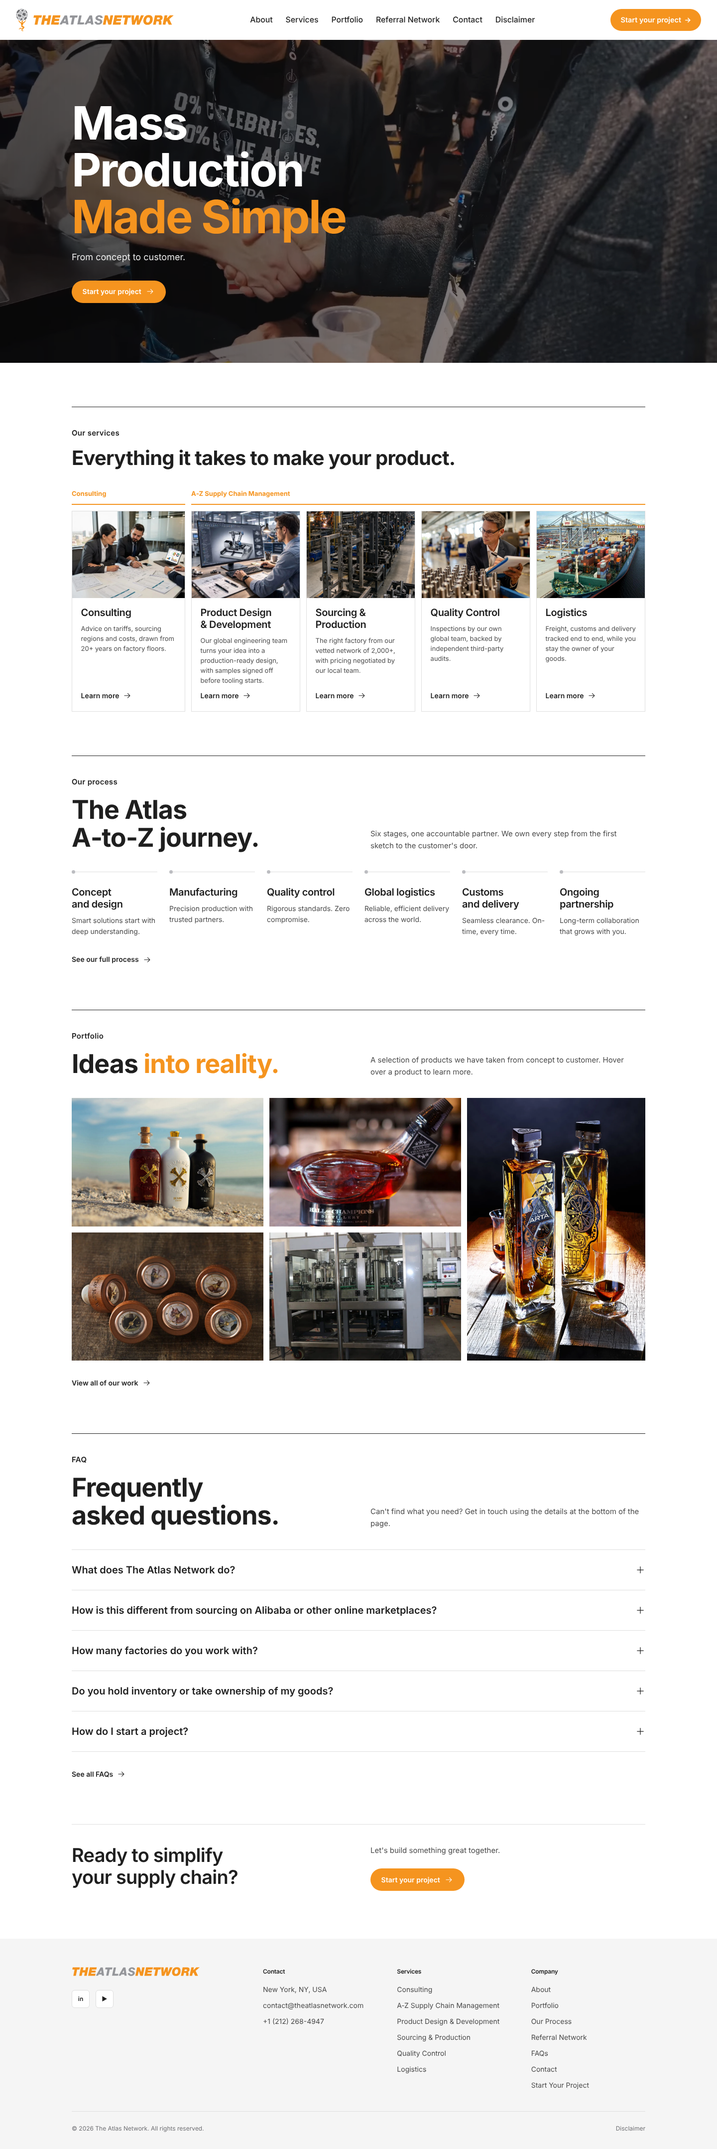
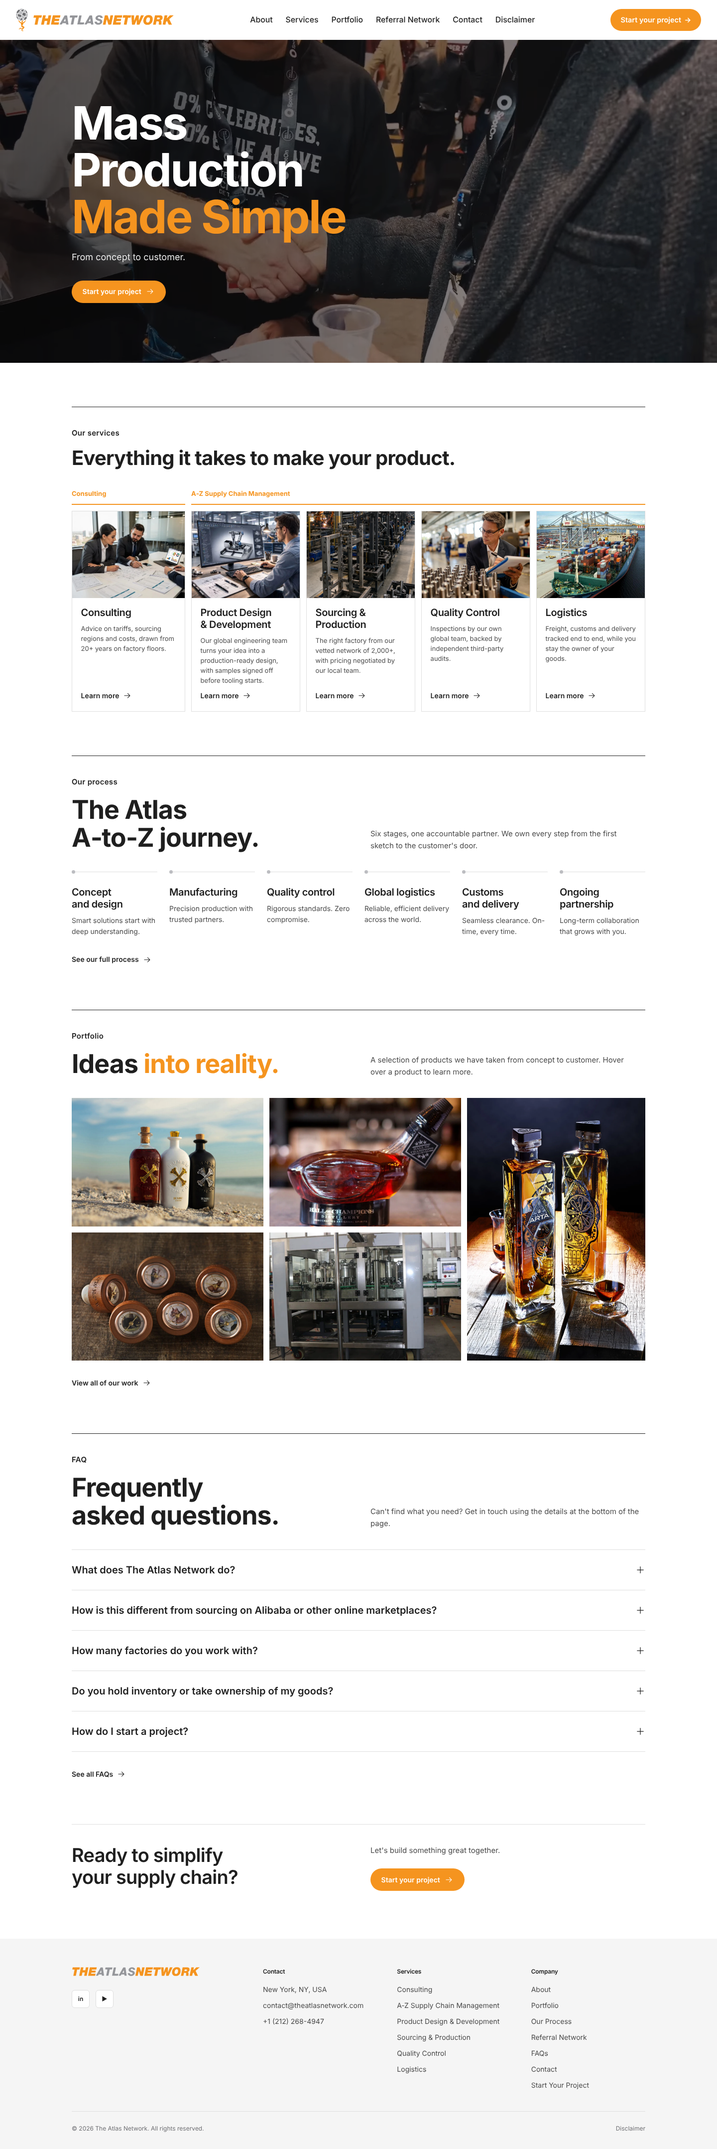
Referral Network: two-column layout with description and video slots
Description on the left (blank for now) and a 16:9 video slot on the
right, separated by a divider in the same style as section dividers.
On phones the columns stack with the divider running horizontally.

Claude-Session: https://claude.ai/code/session_01YL3eWvwcXdoF4z8yaZ8Eba

diff --git a/index.html b/index.html
@@ -7,14 +7,14 @@
 <title>The Atlas Network</title>
 <meta name="description" content="The Atlas Network is a full-service supply chain company that manages your product end-to-end - concept and design, manufacturing, quality control, global logistics, customs and delivery. One partner, zero fragmentation."/>
 <meta name="robots" content="noindex, follow"/>
-<link href="assets/css/site.css?v=05b6158a" rel="stylesheet"/>
+<link href="assets/css/site.css?v=d2ae2652" rel="stylesheet"/>
 </head>
 <body>
 
 <header class="topbar">
   <div class="container">
     <nav aria-label="Global">
-      <a class="logo" href="index.html" aria-label="The Atlas Network - home"><img class="logo-mark" src="assets/images/logo-mark.svg?v=05b6158a" width="329" height="612" alt=""/><img class="logo-type" src="assets/images/logo-wordmark.svg?v=05b6158a" width="917" height="71" alt=""/></a>
+      <a class="logo" href="index.html" aria-label="The Atlas Network - home"><img class="logo-mark" src="assets/images/logo-mark.svg?v=d2ae2652" width="329" height="612" alt=""/><img class="logo-type" src="assets/images/logo-wordmark.svg?v=d2ae2652" width="917" height="71" alt=""/></a>
       <div id="menu" class="menu">
         <a href="about.html">About</a>
         <a href="services.html">Services</a>
@@ -35,9 +35,9 @@
 <main id="top">
   <!-- Banner: a silent 7-second loop (0:02-0:09 of the "Know the details of your product" quick tip). -->
   <section class="banner">
-    <video poster="assets/video/banner-poster.jpg?v=05b6158a" autoplay muted loop playsinline preload="auto" aria-hidden="true">
-      <source src="assets/video/banner.webm?v=05b6158a" type="video/webm"/>
-      <source src="assets/video/banner.mp4?v=05b6158a" type="video/mp4"/>
+    <video poster="assets/video/banner-poster.jpg?v=d2ae2652" autoplay muted loop playsinline preload="auto" aria-hidden="true">
+      <source src="assets/video/banner.webm?v=d2ae2652" type="video/webm"/>
+      <source src="assets/video/banner.mp4?v=d2ae2652" type="video/mp4"/>
     </video>
     <div class="container">
       <h1>Mass Production <span>Made Simple</span></h1>
@@ -194,7 +194,7 @@
   <div class="container">
     <div class="footer-cols">
       <div>
-        <a class="logo" href="index.html" aria-label="The Atlas Network - home"><img class="logo-type" src="assets/images/logo-wordmark.svg?v=05b6158a" width="917" height="71" alt=""/></a>
+        <a class="logo" href="index.html" aria-label="The Atlas Network - home"><img class="logo-type" src="assets/images/logo-wordmark.svg?v=d2ae2652" width="917" height="71" alt=""/></a>
         <div class="social">
           <a href="https://www.linkedin.com/in/theatlasnetwork/" aria-label="LinkedIn">in</a>
           <a href="https://www.youtube.com/@theatlasnetworkllc596" aria-label="YouTube">▶</a>
@@ -231,6 +231,6 @@
   </div>
 </footer>
 
-<script src="assets/js/site.js?v=05b6158a"></script>
+<script src="assets/js/site.js?v=d2ae2652"></script>
 </body>
 </html>

diff --git a/referral-network.html b/referral-network.html
@@ -7,14 +7,14 @@
 <title>Referral Network | The Atlas Network</title>
 <meta name="description" content="The Atlas Network is a full-service supply chain company that manages your product end-to-end - concept and design, manufacturing, quality control, global logistics, customs and delivery."/>
 <meta name="robots" content="noindex, follow"/>
-<link href="assets/css/site.css?v=05b6158a" rel="stylesheet"/>
+<link href="assets/css/site.css?v=d2ae2652" rel="stylesheet"/>
 </head>
 <body>
 
 <header class="topbar">
   <div class="container">
     <nav aria-label="Global">
-      <a class="logo" href="index.html" aria-label="The Atlas Network - home"><img class="logo-mark" src="assets/images/logo-mark.svg?v=05b6158a" width="329" height="612" alt=""/><img class="logo-type" src="assets/images/logo-wordmark.svg?v=05b6158a" width="917" height="71" alt=""/></a>
+      <a class="logo" href="index.html" aria-label="The Atlas Network - home"><img class="logo-mark" src="assets/images/logo-mark.svg?v=d2ae2652" width="329" height="612" alt=""/><img class="logo-type" src="assets/images/logo-wordmark.svg?v=d2ae2652" width="917" height="71" alt=""/></a>
       <div id="menu" class="menu">
         <a href="about.html">About</a>
         <a href="services.html">Services</a>
@@ -40,11 +40,22 @@
     </div>
   </section>
 
-  <section class="section page-body">
+  <section class="section" style="padding-top:3rem">
     <div class="container">
-      <!-- Referral Network content goes here. -->
+      <div class="referral-split">
+        <div class="referral-text">
+          <!-- Referral Network description goes here. -->
+        </div>
+        <div class="referral-video">
+          <div class="video-frame">
+            <!-- Add the video here, for example:
+                 <video src="assets/video/referral.mp4" poster="assets/video/referral-poster.jpg" controls playsinline></video> -->
+          </div>
+        </div>
+      </div>
     </div>
   </section>
+
 
   <!-- Closing call to action -->
   <div class="container cta">
@@ -63,7 +74,7 @@
   <div class="container">
     <div class="footer-cols">
       <div>
-        <a class="logo" href="index.html" aria-label="The Atlas Network - home"><img class="logo-type" src="assets/images/logo-wordmark.svg?v=05b6158a" width="917" height="71" alt=""/></a>
+        <a class="logo" href="index.html" aria-label="The Atlas Network - home"><img class="logo-type" src="assets/images/logo-wordmark.svg?v=d2ae2652" width="917" height="71" alt=""/></a>
         <div class="social">
           <a href="https://www.linkedin.com/in/theatlasnetwork/" aria-label="LinkedIn">in</a>
           <a href="https://www.youtube.com/@theatlasnetworkllc596" aria-label="YouTube">▶</a>
@@ -100,6 +111,6 @@
   </div>
 </footer>
 
-<script src="assets/js/site.js?v=05b6158a"></script>
+<script src="assets/js/site.js?v=d2ae2652"></script>
 </body>
 </html>

diff --git a/start-your-project.html b/start-your-project.html
@@ -7,14 +7,14 @@
 <title>Start Your Project | The Atlas Network</title>
 <meta name="description" content="The Atlas Network is a full-service supply chain company that manages your product end-to-end - concept and design, manufacturing, quality control, global logistics, customs and delivery."/>
 <meta name="robots" content="noindex, follow"/>
-<link href="assets/css/site.css?v=05b6158a" rel="stylesheet"/>
+<link href="assets/css/site.css?v=d2ae2652" rel="stylesheet"/>
 </head>
 <body>
 
 <header class="topbar">
   <div class="container">
     <nav aria-label="Global">
-      <a class="logo" href="index.html" aria-label="The Atlas Network - home"><img class="logo-mark" src="assets/images/logo-mark.svg?v=05b6158a" width="329" height="612" alt=""/><img class="logo-type" src="assets/images/logo-wordmark.svg?v=05b6158a" width="917" height="71" alt=""/></a>
+      <a class="logo" href="index.html" aria-label="The Atlas Network - home"><img class="logo-mark" src="assets/images/logo-mark.svg?v=d2ae2652" width="329" height="612" alt=""/><img class="logo-type" src="assets/images/logo-wordmark.svg?v=d2ae2652" width="917" height="71" alt=""/></a>
       <div id="menu" class="menu">
         <a href="about.html">About</a>
         <a href="services.html">Services</a>
@@ -99,7 +99,7 @@
   <div class="container">
     <div class="footer-cols">
       <div>
-        <a class="logo" href="index.html" aria-label="The Atlas Network - home"><img class="logo-type" src="assets/images/logo-wordmark.svg?v=05b6158a" width="917" height="71" alt=""/></a>
+        <a class="logo" href="index.html" aria-label="The Atlas Network - home"><img class="logo-type" src="assets/images/logo-wordmark.svg?v=d2ae2652" width="917" height="71" alt=""/></a>
         <div class="social">
           <a href="https://www.linkedin.com/in/theatlasnetwork/" aria-label="LinkedIn">in</a>
           <a href="https://www.youtube.com/@theatlasnetworkllc596" aria-label="YouTube">▶</a>
@@ -136,7 +136,7 @@
   </div>
 </footer>
 
-<script src="assets/js/site.js?v=05b6158a"></script>
-<script src="assets/js/project-form.js?v=05b6158a"></script>
+<script src="assets/js/site.js?v=d2ae2652"></script>
+<script src="assets/js/project-form.js?v=d2ae2652"></script>
 </body>
 </html>

diff --git a/about.html b/about.html
@@ -7,14 +7,14 @@
 <title>About Us | The Atlas Network</title>
 <meta name="description" content="The Atlas Network is a full-service supply chain company that manages your product end-to-end - concept and design, manufacturing, quality control, global logistics, customs and delivery."/>
 <meta name="robots" content="noindex, follow"/>
-<link href="assets/css/site.css?v=05b6158a" rel="stylesheet"/>
+<link href="assets/css/site.css?v=d2ae2652" rel="stylesheet"/>
 </head>
 <body>
 
 <header class="topbar">
   <div class="container">
     <nav aria-label="Global">
-      <a class="logo" href="index.html" aria-label="The Atlas Network - home"><img class="logo-mark" src="assets/images/logo-mark.svg?v=05b6158a" width="329" height="612" alt=""/><img class="logo-type" src="assets/images/logo-wordmark.svg?v=05b6158a" width="917" height="71" alt=""/></a>
+      <a class="logo" href="index.html" aria-label="The Atlas Network - home"><img class="logo-mark" src="assets/images/logo-mark.svg?v=d2ae2652" width="329" height="612" alt=""/><img class="logo-type" src="assets/images/logo-wordmark.svg?v=d2ae2652" width="917" height="71" alt=""/></a>
       <div id="menu" class="menu">
         <a href="about.html" aria-current="page">About</a>
         <a href="services.html">Services</a>
@@ -133,7 +133,7 @@
   <div class="container">
     <div class="footer-cols">
       <div>
-        <a class="logo" href="index.html" aria-label="The Atlas Network - home"><img class="logo-type" src="assets/images/logo-wordmark.svg?v=05b6158a" width="917" height="71" alt=""/></a>
+        <a class="logo" href="index.html" aria-label="The Atlas Network - home"><img class="logo-type" src="assets/images/logo-wordmark.svg?v=d2ae2652" width="917" height="71" alt=""/></a>
         <div class="social">
           <a href="https://www.linkedin.com/in/theatlasnetwork/" aria-label="LinkedIn">in</a>
           <a href="https://www.youtube.com/@theatlasnetworkllc596" aria-label="YouTube">▶</a>
@@ -170,6 +170,6 @@
   </div>
 </footer>
 
-<script src="assets/js/site.js?v=05b6158a"></script>
+<script src="assets/js/site.js?v=d2ae2652"></script>
 </body>
 </html>

diff --git a/services.html b/services.html
@@ -7,14 +7,14 @@
 <title>Services | The Atlas Network</title>
 <meta name="description" content="The Atlas Network is a full-service supply chain company that manages your product end-to-end - concept and design, manufacturing, quality control, global logistics, customs and delivery."/>
 <meta name="robots" content="noindex, follow"/>
-<link href="assets/css/site.css?v=05b6158a" rel="stylesheet"/>
+<link href="assets/css/site.css?v=d2ae2652" rel="stylesheet"/>
 </head>
 <body>
 
 <header class="topbar">
   <div class="container">
     <nav aria-label="Global">
-      <a class="logo" href="index.html" aria-label="The Atlas Network - home"><img class="logo-mark" src="assets/images/logo-mark.svg?v=05b6158a" width="329" height="612" alt=""/><img class="logo-type" src="assets/images/logo-wordmark.svg?v=05b6158a" width="917" height="71" alt=""/></a>
+      <a class="logo" href="index.html" aria-label="The Atlas Network - home"><img class="logo-mark" src="assets/images/logo-mark.svg?v=d2ae2652" width="329" height="612" alt=""/><img class="logo-type" src="assets/images/logo-wordmark.svg?v=d2ae2652" width="917" height="71" alt=""/></a>
       <div id="menu" class="menu">
         <a href="about.html">About</a>
         <a href="services.html" aria-current="page">Services</a>
@@ -198,7 +198,7 @@
   <div class="container">
     <div class="footer-cols">
       <div>
-        <a class="logo" href="index.html" aria-label="The Atlas Network - home"><img class="logo-type" src="assets/images/logo-wordmark.svg?v=05b6158a" width="917" height="71" alt=""/></a>
+        <a class="logo" href="index.html" aria-label="The Atlas Network - home"><img class="logo-type" src="assets/images/logo-wordmark.svg?v=d2ae2652" width="917" height="71" alt=""/></a>
         <div class="social">
           <a href="https://www.linkedin.com/in/theatlasnetwork/" aria-label="LinkedIn">in</a>
           <a href="https://www.youtube.com/@theatlasnetworkllc596" aria-label="YouTube">▶</a>
@@ -235,6 +235,6 @@
   </div>
 </footer>
 
-<script src="assets/js/site.js?v=05b6158a"></script>
+<script src="assets/js/site.js?v=d2ae2652"></script>
 </body>
 </html>

diff --git a/process.html b/process.html
@@ -7,14 +7,14 @@
 <title>Our Process | The Atlas Network</title>
 <meta name="description" content="The Atlas Network is a full-service supply chain company that manages your product end-to-end - concept and design, manufacturing, quality control, global logistics, customs and delivery."/>
 <meta name="robots" content="noindex, follow"/>
-<link href="assets/css/site.css?v=05b6158a" rel="stylesheet"/>
+<link href="assets/css/site.css?v=d2ae2652" rel="stylesheet"/>
 </head>
 <body>
 
 <header class="topbar">
   <div class="container">
     <nav aria-label="Global">
-      <a class="logo" href="index.html" aria-label="The Atlas Network - home"><img class="logo-mark" src="assets/images/logo-mark.svg?v=05b6158a" width="329" height="612" alt=""/><img class="logo-type" src="assets/images/logo-wordmark.svg?v=05b6158a" width="917" height="71" alt=""/></a>
+      <a class="logo" href="index.html" aria-label="The Atlas Network - home"><img class="logo-mark" src="assets/images/logo-mark.svg?v=d2ae2652" width="329" height="612" alt=""/><img class="logo-type" src="assets/images/logo-wordmark.svg?v=d2ae2652" width="917" height="71" alt=""/></a>
       <div id="menu" class="menu">
         <a href="about.html">About</a>
         <a href="services.html">Services</a>
@@ -149,7 +149,7 @@
   <div class="container">
     <div class="footer-cols">
       <div>
-        <a class="logo" href="index.html" aria-label="The Atlas Network - home"><img class="logo-type" src="assets/images/logo-wordmark.svg?v=05b6158a" width="917" height="71" alt=""/></a>
+        <a class="logo" href="index.html" aria-label="The Atlas Network - home"><img class="logo-type" src="assets/images/logo-wordmark.svg?v=d2ae2652" width="917" height="71" alt=""/></a>
         <div class="social">
           <a href="https://www.linkedin.com/in/theatlasnetwork/" aria-label="LinkedIn">in</a>
           <a href="https://www.youtube.com/@theatlasnetworkllc596" aria-label="YouTube">▶</a>
@@ -186,6 +186,6 @@
   </div>
 </footer>
 
-<script src="assets/js/site.js?v=05b6158a"></script>
+<script src="assets/js/site.js?v=d2ae2652"></script>
 </body>
 </html>

diff --git a/work.html b/work.html
@@ -7,14 +7,14 @@
 <title>Portfolio | The Atlas Network</title>
 <meta name="description" content="The Atlas Network is a full-service supply chain company that manages your product end-to-end - concept and design, manufacturing, quality control, global logistics, customs and delivery."/>
 <meta name="robots" content="noindex, follow"/>
-<link href="assets/css/site.css?v=05b6158a" rel="stylesheet"/>
+<link href="assets/css/site.css?v=d2ae2652" rel="stylesheet"/>
 </head>
 <body>
 
 <header class="topbar">
   <div class="container">
     <nav aria-label="Global">
-      <a class="logo" href="index.html" aria-label="The Atlas Network - home"><img class="logo-mark" src="assets/images/logo-mark.svg?v=05b6158a" width="329" height="612" alt=""/><img class="logo-type" src="assets/images/logo-wordmark.svg?v=05b6158a" width="917" height="71" alt=""/></a>
+      <a class="logo" href="index.html" aria-label="The Atlas Network - home"><img class="logo-mark" src="assets/images/logo-mark.svg?v=d2ae2652" width="329" height="612" alt=""/><img class="logo-type" src="assets/images/logo-wordmark.svg?v=d2ae2652" width="917" height="71" alt=""/></a>
       <div id="menu" class="menu">
         <a href="about.html">About</a>
         <a href="services.html">Services</a>
@@ -113,7 +113,7 @@
   <div class="container">
     <div class="footer-cols">
       <div>
-        <a class="logo" href="index.html" aria-label="The Atlas Network - home"><img class="logo-type" src="assets/images/logo-wordmark.svg?v=05b6158a" width="917" height="71" alt=""/></a>
+        <a class="logo" href="index.html" aria-label="The Atlas Network - home"><img class="logo-type" src="assets/images/logo-wordmark.svg?v=d2ae2652" width="917" height="71" alt=""/></a>
         <div class="social">
           <a href="https://www.linkedin.com/in/theatlasnetwork/" aria-label="LinkedIn">in</a>
           <a href="https://www.youtube.com/@theatlasnetworkllc596" aria-label="YouTube">▶</a>
@@ -150,6 +150,6 @@
   </div>
 </footer>
 
-<script src="assets/js/site.js?v=05b6158a"></script>
+<script src="assets/js/site.js?v=d2ae2652"></script>
 </body>
 </html>

diff --git a/disclaimer.html b/disclaimer.html
@@ -7,14 +7,14 @@
 <title>Disclaimer | The Atlas Network</title>
 <meta name="description" content="The Atlas Network is a full-service supply chain company that manages your product end-to-end - concept and design, manufacturing, quality control, global logistics, customs and delivery."/>
 <meta name="robots" content="noindex, follow"/>
-<link href="assets/css/site.css?v=05b6158a" rel="stylesheet"/>
+<link href="assets/css/site.css?v=d2ae2652" rel="stylesheet"/>
 </head>
 <body>
 
 <header class="topbar">
   <div class="container">
     <nav aria-label="Global">
-      <a class="logo" href="index.html" aria-label="The Atlas Network - home"><img class="logo-mark" src="assets/images/logo-mark.svg?v=05b6158a" width="329" height="612" alt=""/><img class="logo-type" src="assets/images/logo-wordmark.svg?v=05b6158a" width="917" height="71" alt=""/></a>
+      <a class="logo" href="index.html" aria-label="The Atlas Network - home"><img class="logo-mark" src="assets/images/logo-mark.svg?v=d2ae2652" width="329" height="612" alt=""/><img class="logo-type" src="assets/images/logo-wordmark.svg?v=d2ae2652" width="917" height="71" alt=""/></a>
       <div id="menu" class="menu">
         <a href="about.html">About</a>
         <a href="services.html">Services</a>
@@ -58,7 +58,7 @@
   <div class="container">
     <div class="footer-cols">
       <div>
-        <a class="logo" href="index.html" aria-label="The Atlas Network - home"><img class="logo-type" src="assets/images/logo-wordmark.svg?v=05b6158a" width="917" height="71" alt=""/></a>
+        <a class="logo" href="index.html" aria-label="The Atlas Network - home"><img class="logo-type" src="assets/images/logo-wordmark.svg?v=d2ae2652" width="917" height="71" alt=""/></a>
         <div class="social">
           <a href="https://www.linkedin.com/in/theatlasnetwork/" aria-label="LinkedIn">in</a>
           <a href="https://www.youtube.com/@theatlasnetworkllc596" aria-label="YouTube">▶</a>
@@ -95,6 +95,6 @@
   </div>
 </footer>
 
-<script src="assets/js/site.js?v=05b6158a"></script>
+<script src="assets/js/site.js?v=d2ae2652"></script>
 </body>
 </html>

diff --git a/contact.html b/contact.html
@@ -7,14 +7,14 @@
 <title>Contact | The Atlas Network</title>
 <meta name="description" content="The Atlas Network is a full-service supply chain company that manages your product end-to-end - concept and design, manufacturing, quality control, global logistics, customs and delivery."/>
 <meta name="robots" content="noindex, follow"/>
-<link href="assets/css/site.css?v=05b6158a" rel="stylesheet"/>
+<link href="assets/css/site.css?v=d2ae2652" rel="stylesheet"/>
 </head>
 <body>
 
 <header class="topbar">
   <div class="container">
     <nav aria-label="Global">
-      <a class="logo" href="index.html" aria-label="The Atlas Network - home"><img class="logo-mark" src="assets/images/logo-mark.svg?v=05b6158a" width="329" height="612" alt=""/><img class="logo-type" src="assets/images/logo-wordmark.svg?v=05b6158a" width="917" height="71" alt=""/></a>
+      <a class="logo" href="index.html" aria-label="The Atlas Network - home"><img class="logo-mark" src="assets/images/logo-mark.svg?v=d2ae2652" width="329" height="612" alt=""/><img class="logo-type" src="assets/images/logo-wordmark.svg?v=d2ae2652" width="917" height="71" alt=""/></a>
       <div id="menu" class="menu">
         <a href="about.html">About</a>
         <a href="services.html">Services</a>
@@ -85,7 +85,7 @@
   <div class="container">
     <div class="footer-cols">
       <div>
-        <a class="logo" href="index.html" aria-label="The Atlas Network - home"><img class="logo-type" src="assets/images/logo-wordmark.svg?v=05b6158a" width="917" height="71" alt=""/></a>
+        <a class="logo" href="index.html" aria-label="The Atlas Network - home"><img class="logo-type" src="assets/images/logo-wordmark.svg?v=d2ae2652" width="917" height="71" alt=""/></a>
         <div class="social">
           <a href="https://www.linkedin.com/in/theatlasnetwork/" aria-label="LinkedIn">in</a>
           <a href="https://www.youtube.com/@theatlasnetworkllc596" aria-label="YouTube">▶</a>
@@ -122,6 +122,6 @@
   </div>
 </footer>
 
-<script src="assets/js/site.js?v=05b6158a"></script>
+<script src="assets/js/site.js?v=d2ae2652"></script>
 </body>
 </html>

diff --git a/faq.html b/faq.html
@@ -7,14 +7,14 @@
 <title>FAQ | The Atlas Network</title>
 <meta name="description" content="The Atlas Network is a full-service supply chain company that manages your product end-to-end - concept and design, manufacturing, quality control, global logistics, customs and delivery."/>
 <meta name="robots" content="noindex, follow"/>
-<link href="assets/css/site.css?v=05b6158a" rel="stylesheet"/>
+<link href="assets/css/site.css?v=d2ae2652" rel="stylesheet"/>
 </head>
 <body>
 
 <header class="topbar">
   <div class="container">
     <nav aria-label="Global">
-      <a class="logo" href="index.html" aria-label="The Atlas Network - home"><img class="logo-mark" src="assets/images/logo-mark.svg?v=05b6158a" width="329" height="612" alt=""/><img class="logo-type" src="assets/images/logo-wordmark.svg?v=05b6158a" width="917" height="71" alt=""/></a>
+      <a class="logo" href="index.html" aria-label="The Atlas Network - home"><img class="logo-mark" src="assets/images/logo-mark.svg?v=d2ae2652" width="329" height="612" alt=""/><img class="logo-type" src="assets/images/logo-wordmark.svg?v=d2ae2652" width="917" height="71" alt=""/></a>
       <div id="menu" class="menu">
         <a href="about.html">About</a>
         <a href="services.html">Services</a>
@@ -148,7 +148,7 @@
   <div class="container">
     <div class="footer-cols">
       <div>
-        <a class="logo" href="index.html" aria-label="The Atlas Network - home"><img class="logo-type" src="assets/images/logo-wordmark.svg?v=05b6158a" width="917" height="71" alt=""/></a>
+        <a class="logo" href="index.html" aria-label="The Atlas Network - home"><img class="logo-type" src="assets/images/logo-wordmark.svg?v=d2ae2652" width="917" height="71" alt=""/></a>
         <div class="social">
           <a href="https://www.linkedin.com/in/theatlasnetwork/" aria-label="LinkedIn">in</a>
           <a href="https://www.youtube.com/@theatlasnetworkllc596" aria-label="YouTube">▶</a>
@@ -185,6 +185,6 @@
   </div>
 </footer>
 
-<script src="assets/js/site.js?v=05b6158a"></script>
+<script src="assets/js/site.js?v=d2ae2652"></script>
 </body>
 </html>

diff --git a/assets/css/site.css b/assets/css/site.css
@@ -350,3 +350,15 @@ footer { background: var(--surface); margin-top: 3rem; padding: 3.5rem 0 2rem; f
 .legal-doc { max-width: 46rem; }
 .legal-doc p { font-size: .9375rem; line-height: 1.75; }
 .legal-doc p + p { margin-top: 1.25rem; }
+
+/* Referral Network: description on the left, video on the right, split by a section-style divider */
+.referral-split { display: grid; grid-template-columns: minmax(0, 1fr) minmax(0, 1fr); }
+.referral-text { padding-right: clamp(1.5rem, 4vw, 3.5rem); min-width: 0; }
+.referral-video { padding-left: clamp(1.5rem, 4vw, 3.5rem); border-left: 1px solid var(--ink); min-width: 0; }
+.video-frame { aspect-ratio: 16 / 9; max-width: 100%; background: var(--placeholder); overflow: hidden; }
+.video-frame video { display: block; width: 100%; height: 100%; object-fit: cover; }
+@media (max-width: 760px) {
+  .referral-split { grid-template-columns: 1fr; }
+  .referral-text { padding-right: 0; min-height: 4rem; }
+  .referral-video { padding-left: 0; padding-top: 2rem; margin-top: 2rem; border-left: 0; border-top: 1px solid var(--ink); }
+}
